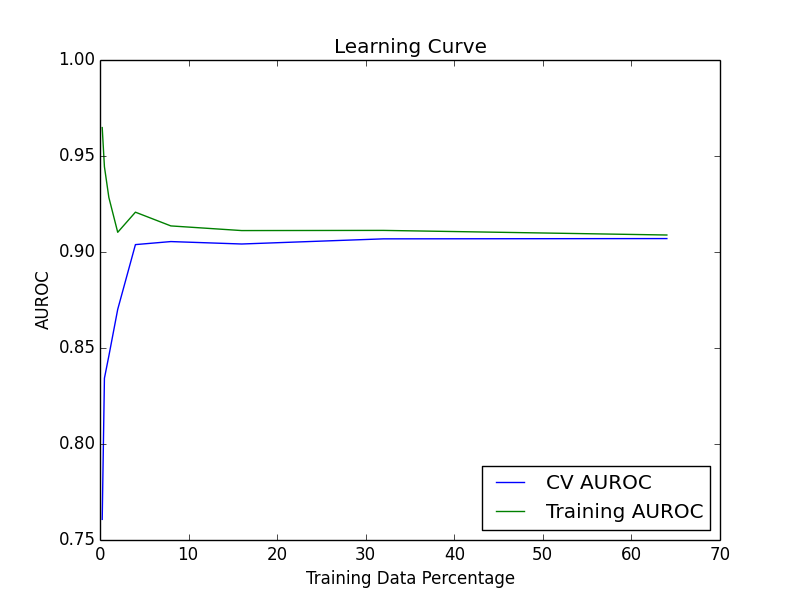
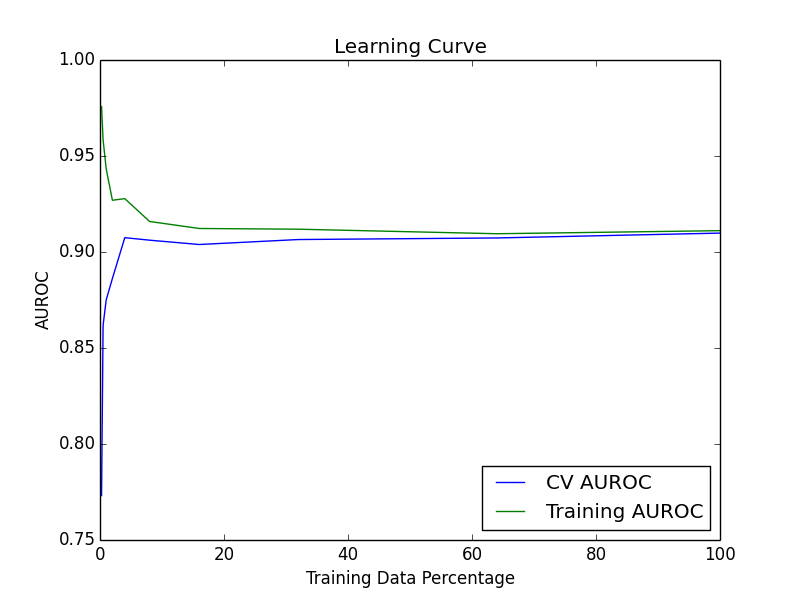
Move back to no class weights

diff --git a/linear_svm.py b/linear_svm.py
@@ -29,6 +29,7 @@ def FitModel(train_data, train_labels, n_folds = 5, random_seed = CONST_RANDOM_S
 	# 	{'C': map(lambda x: 2 ** x, range(-15, 2)), 'max_iter': [max_iter],
 	# 		'dual': [False], 'random_state': [random_seed], 'loss': ['squared_hinge'] }
 	# ]
+	# best_classifier = GridSearchCV(estimator = LinearSVC(), param_grid = param_grid, cv = n_folds, scoring = 'roc_auc', verbose = 2, n_jobs = 4)
 
 	# # if using LinearSVC with class weights
 	# class_weights = []
@@ -39,8 +40,8 @@ def FitModel(train_data, train_labels, n_folds = 5, random_seed = CONST_RANDOM_S
 	# 	{'C': map(lambda x: 2 ** x, range(-15, -7)), 'max_iter': [max_iter],
 	# 		'dual': [False], 'random_state': [random_seed], 'loss': ['squared_hinge'], 'class_weight': class_weights }
 	# ]
+	# best_classifier = GridSearchCV(estimator = LinearSVC(), param_grid = param_grid, cv = n_folds, verbose = 2, n_jobs = 4)
 
-	# best_classifier = GridSearchCV(estimator = LinearSVC(), param_grid = param_grid, cv = n_folds, scoring = 'roc_auc', verbose = 2, n_jobs = 4)
 	# best_classifier.fit(train_data, train_labels)
 
 	# C = map(lambda x: 2 ** x, range(-5, 5))
@@ -52,7 +53,7 @@ def FitModel(train_data, train_labels, n_folds = 5, random_seed = CONST_RANDOM_S
 
 	# print best_classifier.best_score_
 	
-	opt_hyperparameters = {'loss': 'squared_hinge', 'C': 0.000244140625, 'max_iter': 1000, 'random_state': 42, 'dual': False, 'class_weight': {0: 1, 1: 4}}
+	opt_hyperparameters = {'loss': 'squared_hinge', 'C': 0.0009765625, 'max_iter': 1000, 'random_state': 42, 'dual': False}
 
 	classifier = LinearSVC(**opt_hyperparameters)
 	classifier.fit(train_data, train_labels)
@@ -140,7 +141,7 @@ def plot_learning_curves(data, labels, mode = 'auc', n_folds = 5, random_seed = 
 			X_train, X_test = train_data[train_index], train_data[test_index]
 			y_train, y_test = train_labels[train_index], train_labels[test_index]
 
-			opt_hyperparameters = {'loss': 'squared_hinge', 'C': 0.000244140625, 'max_iter': 1000, 'random_state': 42, 'dual': False, 'class_weight': {0: 1, 1: 4}}
+			opt_hyperparameters = {'loss': 'squared_hinge', 'C': 0.0009765625, 'max_iter': 1000, 'random_state': 42, 'dual': False}
 
 			classifier = LinearSVC(**opt_hyperparameters)
 			classifier.fit(X_train, y_train)
@@ -190,11 +191,11 @@ if __name__ == '__main__':
 	train_data, test_data, train_labels, test_labels = train_test_split(x, y, test_size = 0.2, random_state = CONST_RANDOM_SEED)
 
 	# # print len(train_data[0]), len(test_data[0])
-	# scaler, classifier = FitModel(train_data, train_labels)
+	scaler, classifier = FitModel(train_data, train_labels)
 
-	# # print classifier
+	# print classifier
 	# TestModel(test_data, test_labels, scaler, classifier)
 
 	# roc_statistics(test_data, test_labels, scaler, classifier)
 
-	plot_learning_curves(train_data, train_labels, mode = 'error')
+	# plot_learning_curves(train_data, train_labels, mode = 'auc')

diff --git a/gaussian_svm.py b/gaussian_svm.py
@@ -53,7 +53,7 @@ def FitModel(train_data, train_labels, n_folds = 5, random_seed = CONST_RANDOM_S
 
 	# print best_classifier.best_score_
 
-	opt_hyperparameters = {'kernel': 'rbf', 'C': 1, 'random_state': 42, 'gamma': 0.00390625, 'class_weight': {0: 1, 1: 4}}
+	opt_hyperparameters = {'kernel': 'rbf', 'C': 2, 'gamma': 0.001953125, 'random_state': 42}
 
 	classifier = SVC(**opt_hyperparameters)
 	classifier.fit(train_data, train_labels)
@@ -140,7 +140,7 @@ def plot_learning_curves(data, labels, mode = 'auc', n_folds = 5, random_seed = 
 			X_train, X_test = train_data[train_index], train_data[test_index]
 			y_train, y_test = train_labels[train_index], train_labels[test_index]
 
-			opt_hyperparameters = {'kernel': 'rbf', 'C': 1, 'random_state': 42, 'gamma': 0.00390625, 'class_weight': {0: 1, 1: 4}}
+			opt_hyperparameters = {'kernel': 'rbf', 'C': 2, 'gamma': 0.001953125, 'random_state': 42}
 
 			classifier = SVC(**opt_hyperparameters)
 			classifier.fit(X_train, y_train)
@@ -189,12 +189,12 @@ if __name__ == '__main__':
 
 	train_data, test_data, train_labels, test_labels = train_test_split(x, y, test_size = 0.2, random_state = CONST_RANDOM_SEED)
 
-	# # # print len(train_data[0]), len(test_data[0])
-	# scaler, classifier = FitModel(train_data, train_labels)
+	# # print len(train_data[0]), len(test_data[0])
+	scaler, classifier = FitModel(train_data, train_labels)
 
 	# # print classifier
 	# TestModel(test_data, test_labels, scaler, classifier)
 
 	# roc_statistics(test_data, test_labels, scaler, classifier)
 
-	plot_learning_curves(train_data, train_labels, mode = 'error')
+	# plot_learning_curves(train_data, train_labels, mode = 'auc')
